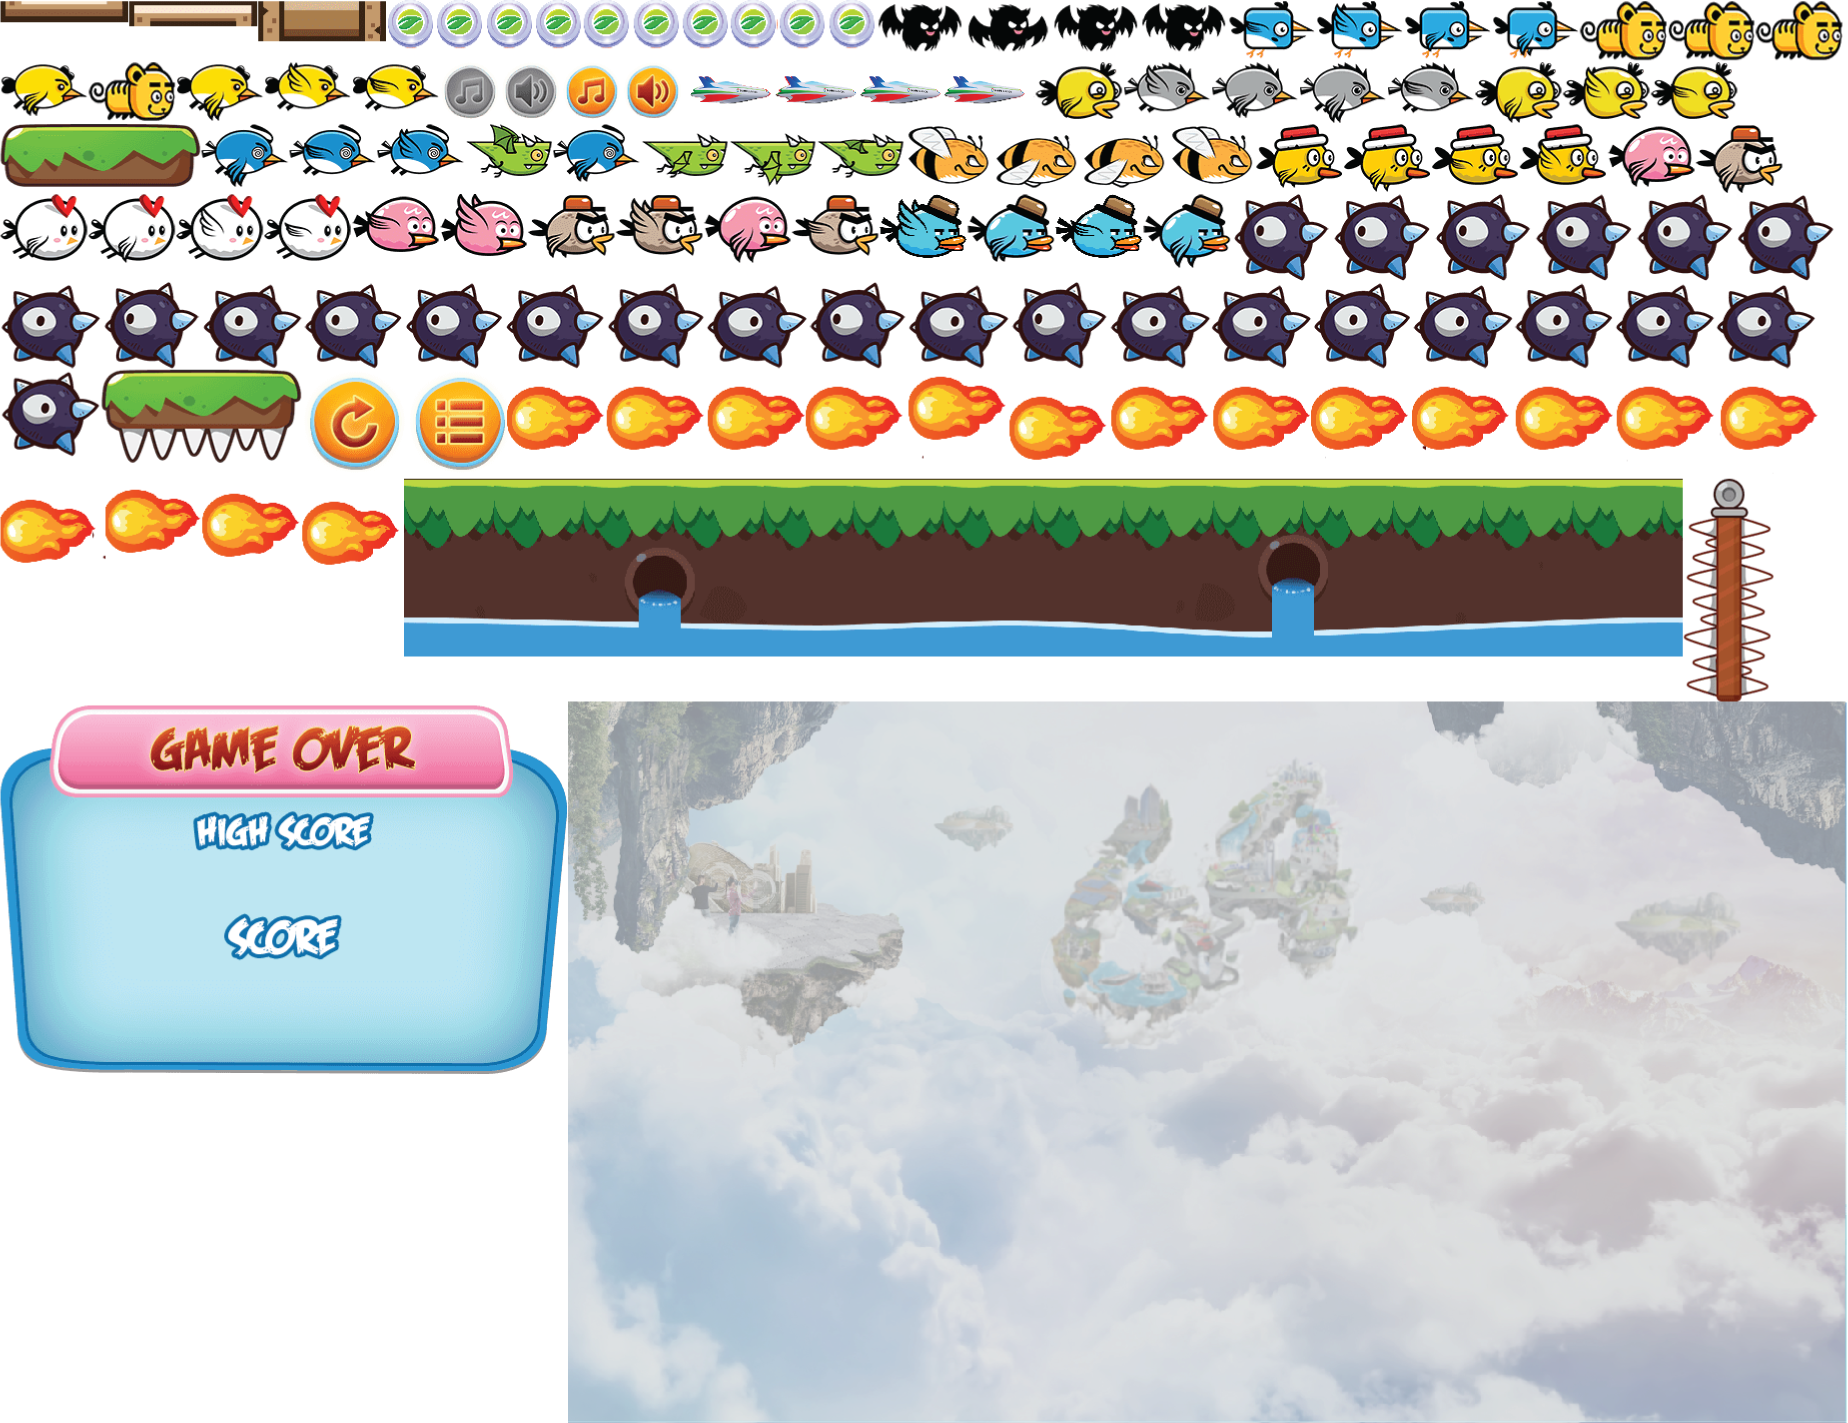
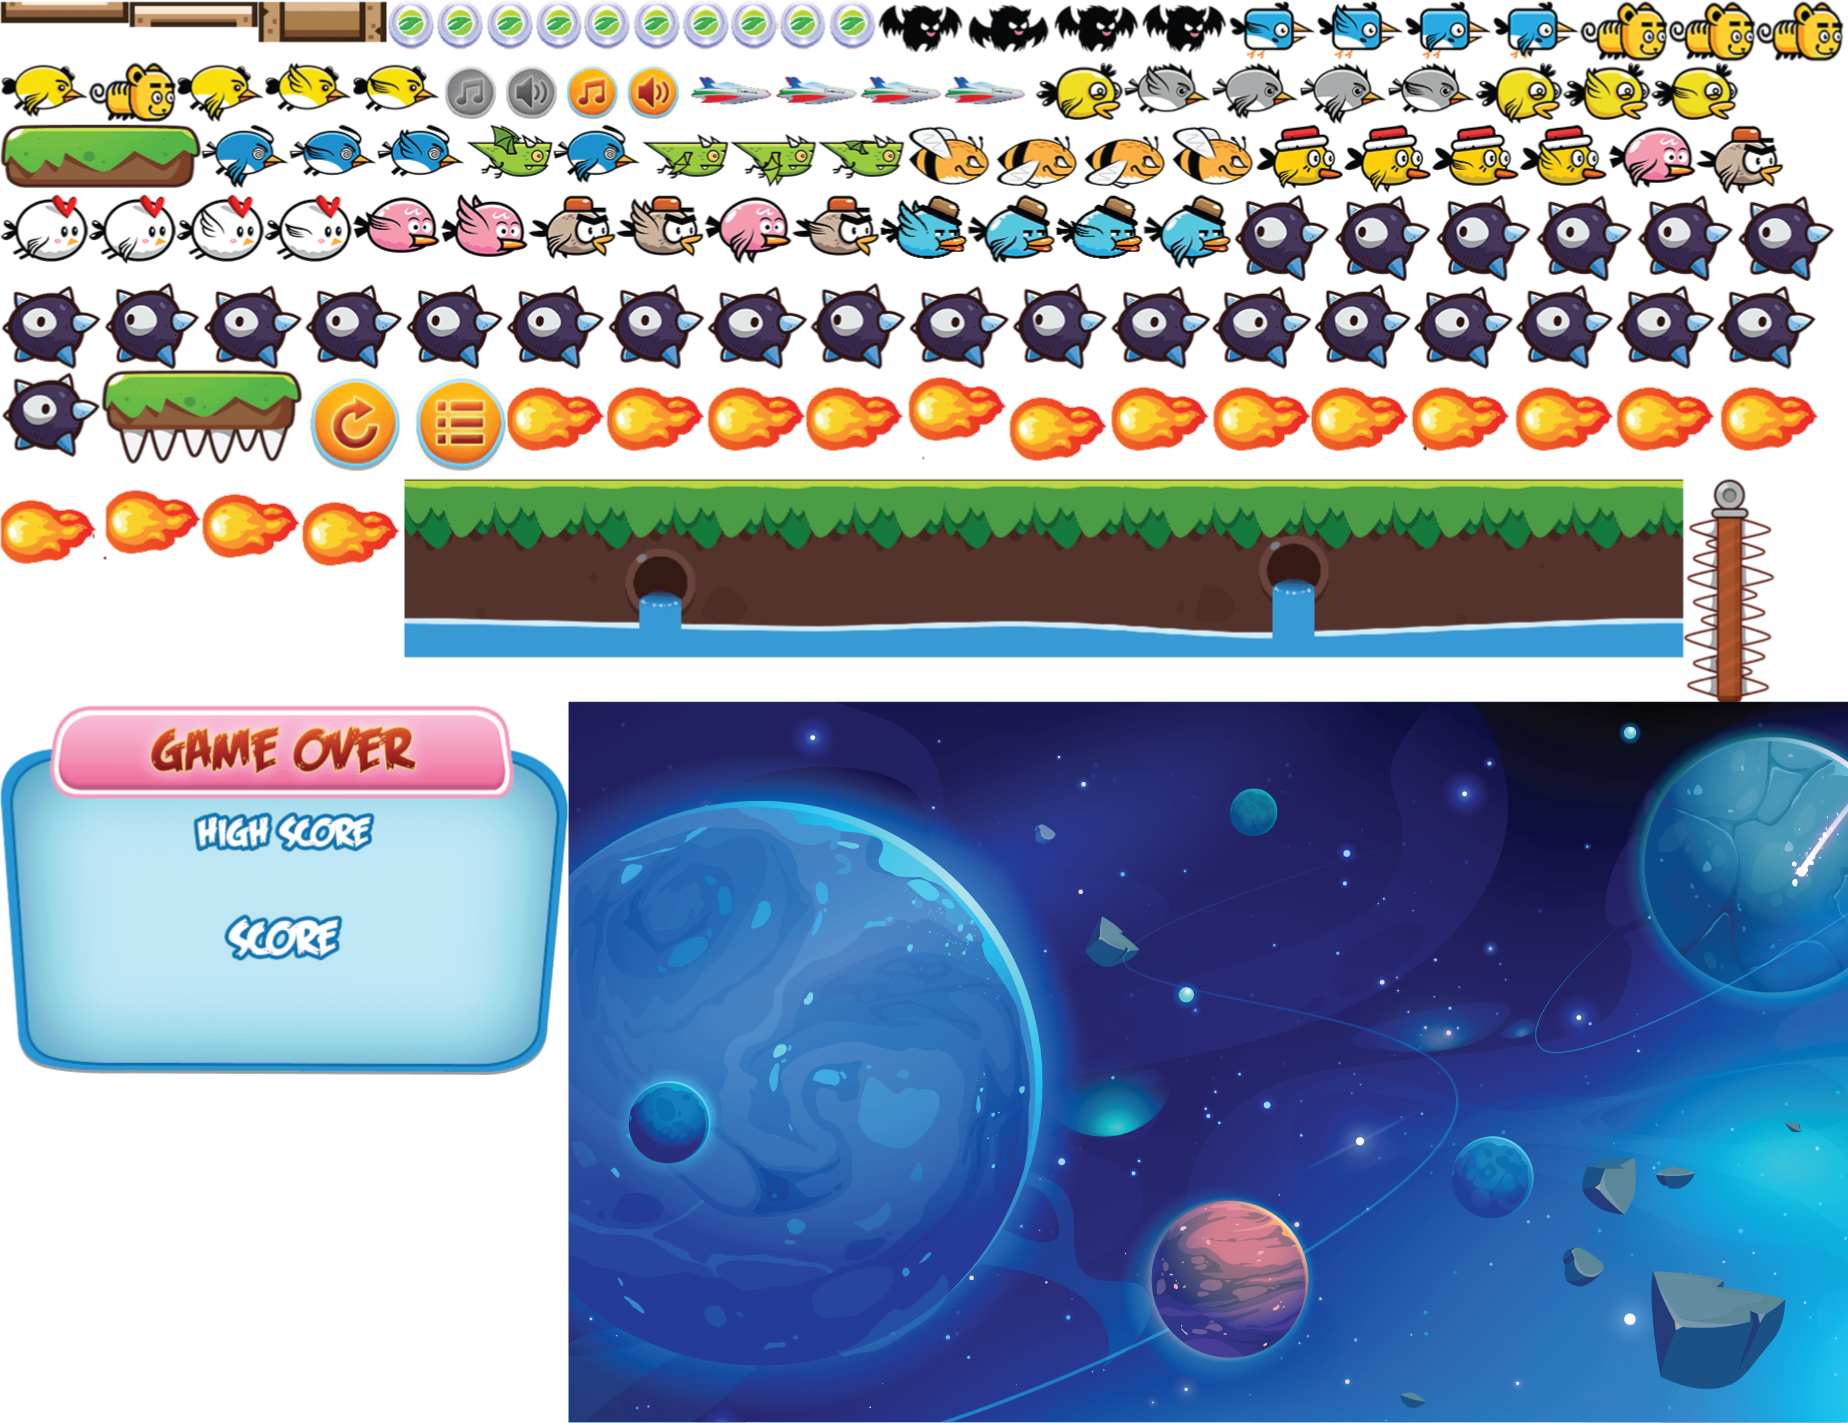
Simple Fix

diff --git a/index.html b/index.html
@@ -48,7 +48,6 @@
 </head>
     
 <body>
-    <img src="images/interbio.svg" class="img" width="100%" height="100%"> 
     <!-- include game loader -->
     <div class="fontLoader" style="font-family: feast">.</div>
 	<script src='flappy/js/loader.js'></script>

diff --git a/memory.html b/memory.html
@@ -63,7 +63,6 @@
 </head> 
  
 <body> 
-	<img src="images/interbio.svg" class="img" width="100%" height="100%">
 	<div id="fb-root"></div>
 	
 	<script>
